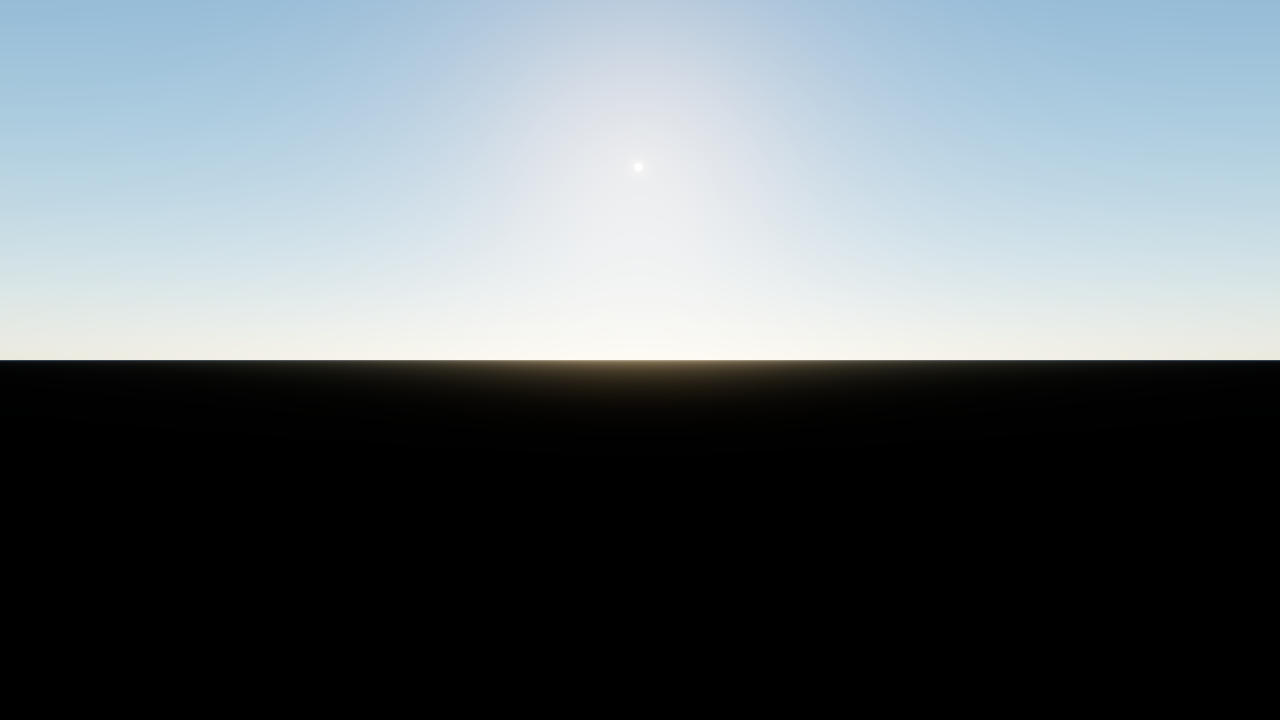
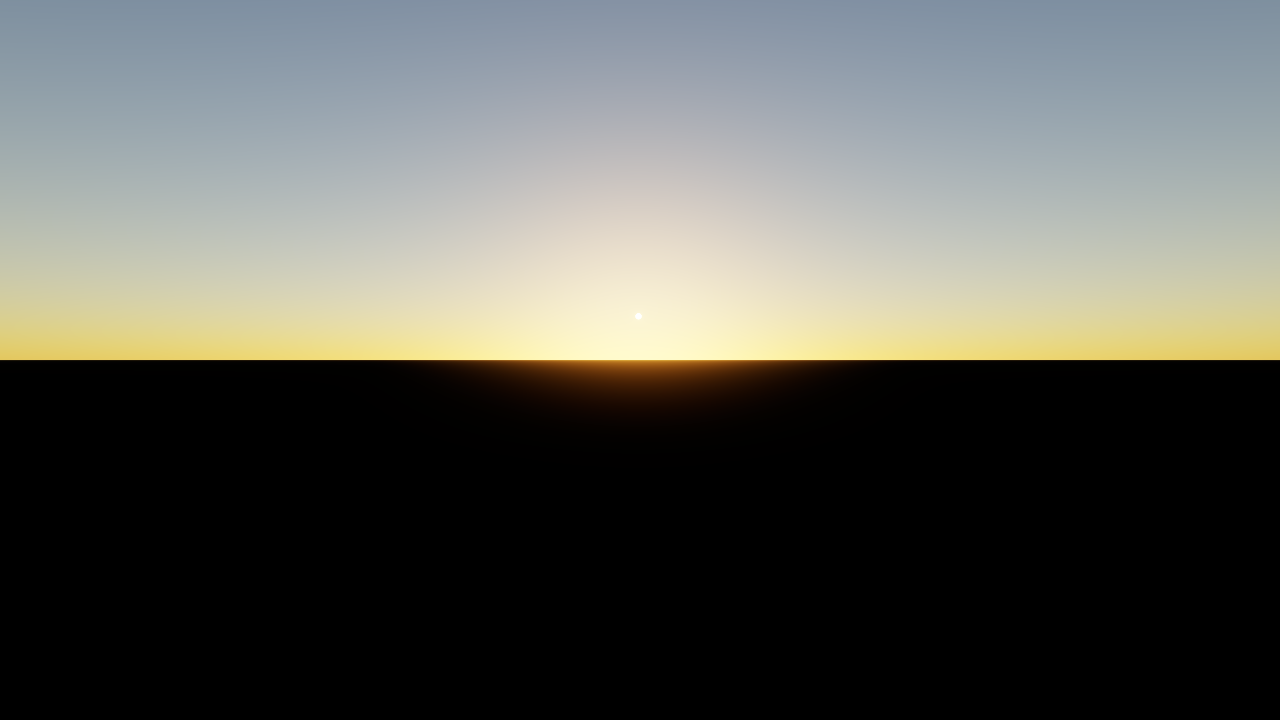
Update screenshot to low-sun sunset with visible scattering
Capture elevation lowered from 0.3 rad (~17 deg) to 0.07 rad (~4 deg)
to showcase the warm orange/gold horizon scattering, bloom halo around
the sun disc, and the blue-to-gray gradient overhead.

diff --git a/lessons/gpu/26-procedural-sky/main.c b/lessons/gpu/26-procedural-sky/main.c
@@ -148,8 +148,8 @@
 #define TONEMAP_ACES     2
 
 /* Capture mode — fixed sun angle for consistent screenshots.
- * Azimuth 4.71 ≈ 3π/2 places the sun along -Z (in front of the camera). */
-#define CAPTURE_SUN_ELEVATION 0.3f  /* ~17 degrees — daytime with visible sun disc */
+ * Low elevation shows warm scattering, bloom halo, and orange horizon. */
+#define CAPTURE_SUN_ELEVATION 0.07f /* ~4 degrees — low sun for sunset scattering  */
 #define CAPTURE_SUN_AZIMUTH   4.71f /* 3π/2 — directly in front of camera (-Z)    */
 
 /* Frame timing. */
